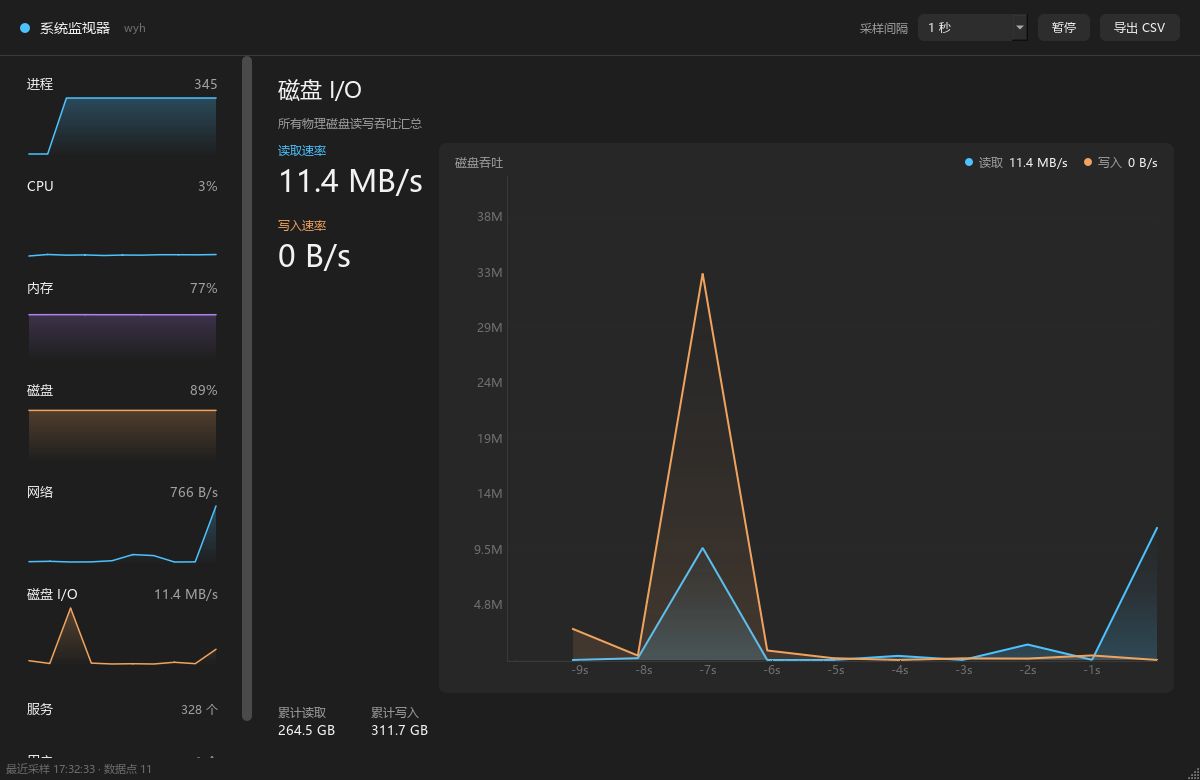
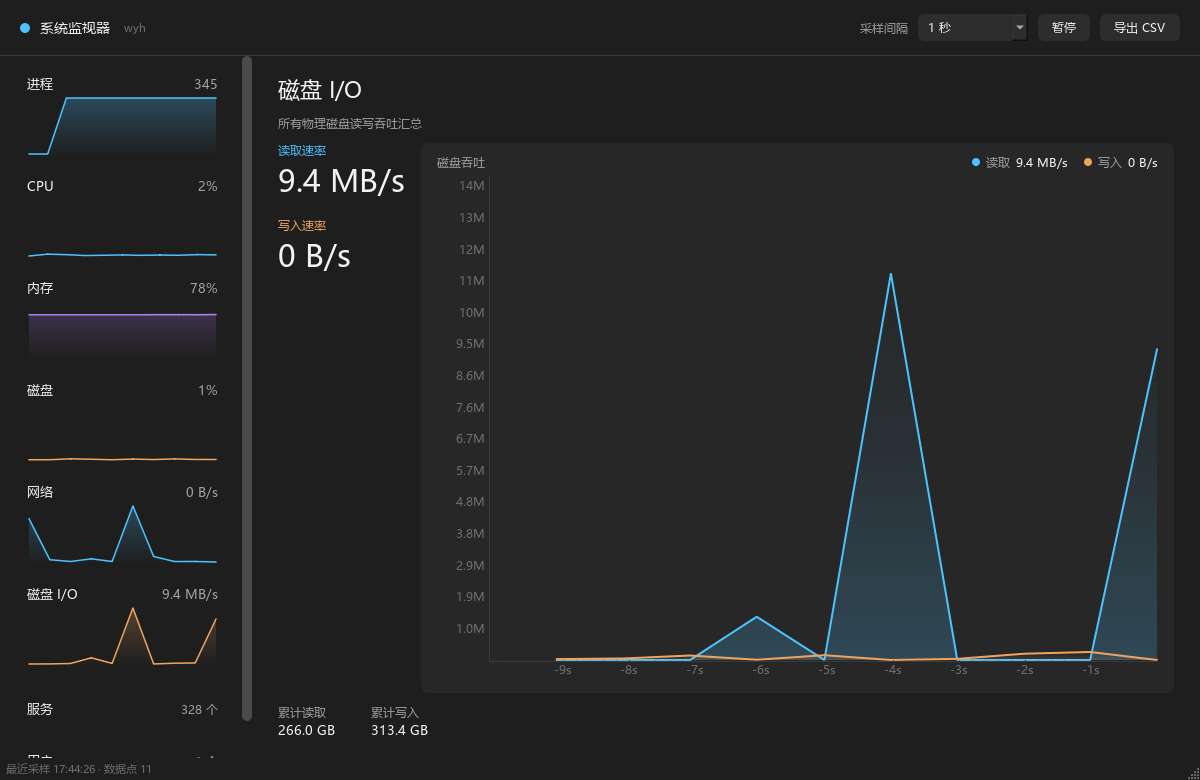
fix: 磁盘活动时间改用 PDH 计数器，与任务管理器口径一致
- 导航卡片与磁盘页展示「活动时间占比」，不再是分区容量使用率
- 分区容量保留在磁盘页，并明确标注两者含义不同
- psutil 的 read_time/write_time 在 NVMe 上恒为 0，仅作为 PDH 不可用时的回退
- 修复暂停恢复后首帧 CPU 取到微秒级窗口随机值的问题
- CSV 增加磁盘活动(%)列，文档补充三个磁盘指标的区别

diff --git a/sysmon/collector.py b/sysmon/collector.py
@@ -17,6 +17,7 @@ import psutil
 
 from .engine import RateTracker
 from .models import PartitionInfo, ProcessInfo, Snapshot, UserInfo
+from .winperf import DiskActivity
 
 PARTITION_CACHE_SECONDS = 30.0
 CONNECTIONS_EVERY_N_TICKS = 5
@@ -33,6 +34,14 @@ class Collector:
         self._net_down_tracker = RateTracker(interval)
         self._disk_read_tracker = RateTracker(interval)
         self._disk_write_tracker = RateTracker(interval)
+
+        # 磁盘活动时间：优先用 PDH 性能计数器（与任务管理器同源），
+        # 不可用时退回 read_time/write_time 差值法
+        self._disk_activity = DiskActivity()
+        self._busy_prev: Optional[Tuple[float, float]] = None
+        # CPU 基线刚重置时，避免用极短间隔再算一次得出垃圾值
+        self._cpu_last_mono: Optional[float] = None
+        self._cpu_last_value: Tuple[float, Tuple[float, ...], float] = (0.0, (), 0.0)
 
         self._part_cache: Optional[List[psutil._common.sdiskpart]] = None
         self._part_cache_time = float("-inf")
@@ -61,10 +70,15 @@ class Collector:
         """
         for tracker in self._trackers():
             tracker.reset()
+        self._busy_prev = None
+        self._disk_activity.rebase()
 
         try:
             psutil.cpu_percent(interval=None)
             psutil.cpu_percent(interval=None, percpu=True)
+            # 记录重置时刻：紧接着的那一帧间隔太短，不能直接再取一次，
+            # 否则得到的是微秒级窗口上的随机值
+            self._cpu_last_mono = time.perf_counter()
         except Exception:
             pass
 
@@ -104,7 +118,7 @@ class Collector:
         errors: List[str] = []
         self._tick += 1
 
-        cpu_percent, cpu_per_core, cpu_freq = self._sample_cpu(errors)
+        cpu_percent, cpu_per_core, cpu_freq = self._sample_cpu(mono, errors)
         (
             mem_percent,
             mem_used,
@@ -116,7 +130,7 @@ class Collector:
         ) = self._sample_memory(errors)
         partitions = self._sample_partitions(mono, errors)
         net_up, net_down, net_sent, net_recv = self._sample_network(mono)
-        disk_r, disk_w, disk_rt, disk_wt = self._sample_disk_io(mono)
+        disk_r, disk_w, disk_rt, disk_wt, disk_busy = self._sample_disk_io(mono)
         proc_cache, proc_count = self._read_processes()
         self._maybe_sample_connections(errors)
         self._maybe_sample_users(errors)
@@ -147,6 +161,7 @@ class Collector:
             disk_write_rate=disk_w,
             disk_read_total=disk_rt,
             disk_write_total=disk_wt,
+            disk_busy_percent=disk_busy,
             proc_count=proc_count,
             processes=proc_cache,
             users=self._users_cache,
@@ -155,7 +170,12 @@ class Collector:
         )
 
     # ------------------------------------------------------------------ 各指标
-    def _sample_cpu(self, errors: List[str]):
+    def _sample_cpu(self, mono: float, errors: List[str]):
+        # 基线刚重置（暂停恢复、改采样间隔）时，与上一次 cpu_percent 调用的
+        # 间隔只有微秒级，此时取数只会得到随机值。这一帧沿用上一帧的读数。
+        if self._cpu_last_mono is not None and mono - self._cpu_last_mono < 0.2:
+            return self._cpu_last_value
+
         try:
             percent = psutil.cpu_percent(interval=None)
             per_core = tuple(psutil.cpu_percent(interval=None, percpu=True))
@@ -170,6 +190,9 @@ class Collector:
                 freq = float(f.current)
         except Exception:
             pass
+
+        self._cpu_last_mono = mono
+        self._cpu_last_value = (percent, per_core, freq)
         return percent, per_core, freq
 
     @staticmethod
@@ -258,16 +281,34 @@ class Collector:
         try:
             per_disk = psutil.disk_io_counters(perdisk=True)
         except Exception:
-            return None, None, 0, 0
+            return None, None, 0, 0, None
         if not per_disk:
-            return None, None, 0, 0
+            return None, None, 0, 0, None
 
         read_total = sum(d.read_bytes for d in per_disk.values())
         write_total = sum(d.write_bytes for d in per_disk.values())
 
         read_rate = self._disk_read_tracker.update(read_total, mono)
         write_rate = self._disk_write_tracker.update(write_total, mono)
-        return read_rate, write_rate, read_total, write_total
+
+        busy = self._disk_activity.read()
+        if busy is None:
+            # 回退方案：read_time / write_time 为累计毫秒数（部分机器恒为 0）
+            busy_ms = float(
+                sum(getattr(d, "read_time", 0) + getattr(d, "write_time", 0)
+                    for d in per_disk.values())
+            )
+            prev = self._busy_prev
+            if prev is not None:
+                dt = mono - prev[1]
+                tolerance = max(self.interval * 2.0, 0.5)
+                if dt > 0 and abs(dt - self.interval) <= tolerance:
+                    delta_ms = busy_ms - prev[0]
+                    if delta_ms >= 0:
+                        busy = max(0.0, min(100.0, delta_ms / (dt * 1000.0) * 100.0))
+            self._busy_prev = (busy_ms, mono)
+
+        return read_rate, write_rate, read_total, write_total, busy
 
     def refresh_processes(self) -> None:
         """由独立的进程线程周期调用。

diff --git a/sysmon/winperf.py b/sysmon/winperf.py
@@ -1,0 +1,114 @@
+"""Windows 性能计数器（PDH）访问。
+
+psutil 的 disk_io_counters 虽然提供 read_time / write_time，
+但这两项来自 IOCTL_DISK_PERFORMANCE，在 NVMe 或未启用 diskperf 的机器上恒为 0
+（本项目开发机实测：写入 213 MB 后增量仍为 0），无法据此计算活动时间。
+任务管理器用的是性能计数器里的 "% Disk Time"，这里直接读同一个来源。
+
+使用 PdhAddEnglishCounterW 而不是 PdhAddCounterW，保证在中文等本地化
+Windows 上也能用英文计数器名。
+"""
+from __future__ import annotations
+
+import ctypes
+import sys
+from ctypes import wintypes
+from typing import Optional
+
+_PDH_FMT_DOUBLE = 0x00000200
+_PDH_FMT_NOCAP100 = 0x00008000
+_ERROR_SUCCESS = 0
+
+_COUNTER_PATH = r"\PhysicalDisk(_Total)\% Disk Time"
+
+
+class _PdhFmtCounterValue(ctypes.Structure):
+    class _Value(ctypes.Union):
+        _fields_ = [
+            ("doubleValue", ctypes.c_double),
+            ("longValue", ctypes.c_long),
+            ("largeValue", ctypes.c_longlong),
+        ]
+
+    _anonymous_ = ("u",)
+    _fields_ = [("status", wintypes.DWORD), ("u", _Value)]
+
+
+class DiskActivity:
+    """磁盘活动时间占比（0–100），语义与任务管理器「性能 → 磁盘」一致。"""
+
+    def __init__(self) -> None:
+        self._pdh = None
+        self._query = wintypes.HANDLE()
+        self._counter = wintypes.HANDLE()
+        self._available = False
+        self._primed = False
+
+        if sys.platform != "win32":
+            return
+
+        try:
+            pdh = ctypes.WinDLL("pdh")
+            if pdh.PdhOpenQueryW(None, 0, ctypes.byref(self._query)) != _ERROR_SUCCESS:
+                return
+            if (
+                pdh.PdhAddEnglishCounterW(
+                    self._query, _COUNTER_PATH, 0, ctypes.byref(self._counter)
+                )
+                != _ERROR_SUCCESS
+            ):
+                pdh.PdhCloseQuery(self._query)
+                return
+            self._pdh = pdh
+            self._available = True
+            self.rebase()
+        except Exception:
+            self._pdh = None
+            self._available = False
+
+    @property
+    def available(self) -> bool:
+        return self._available
+
+    def rebase(self) -> None:
+        """丢弃当前基线。暂停恢复后必须先调用，否则下一帧会把整段暂停计入。"""
+        if not self._available:
+            return
+        try:
+            self._pdh.PdhCollectQueryData(self._query)
+            self._primed = False
+        except Exception:
+            self._available = False
+
+    def read(self) -> Optional[float]:
+        """采集一次并返回活动时间百分比；不可用时返回 None。"""
+        if not self._available:
+            return None
+        try:
+            if self._pdh.PdhCollectQueryData(self._query) != _ERROR_SUCCESS:
+                return None
+            value = _PdhFmtCounterValue()
+            rc = self._pdh.PdhGetFormattedCounterValue(
+                self._counter,
+                _PDH_FMT_DOUBLE | _PDH_FMT_NOCAP100,
+                None,
+                ctypes.byref(value),
+            )
+            if rc != _ERROR_SUCCESS or value.status != _ERROR_SUCCESS:
+                return None
+            # 首次取数只有基线、没有差值
+            if not self._primed:
+                self._primed = True
+                return None
+            # _Total 是各磁盘之和，多盘并发时可能超过 100
+            return max(0.0, min(100.0, float(value.doubleValue)))
+        except Exception:
+            return None
+
+    def close(self) -> None:
+        if self._available:
+            try:
+                self._pdh.PdhCloseQuery(self._query)
+            except Exception:
+                pass
+            self._available = False

diff --git a/sysmon/ui/main_window.py b/sysmon/ui/main_window.py
@@ -23,7 +23,7 @@ from PySide6.QtWidgets import (
 )
 
 from ..collector import Collector
-from ..engine import HysteresisAlarm, History, format_bytes
+from ..engine import HysteresisAlarm, History, format_bytes, format_percent
 from ..services import ServiceWorker
 from ..worker import ProcessWorker, SampleWorker
 from .pages import (
@@ -305,13 +305,10 @@ class MainWindow(QMainWindow):
         cards["mem"].set_value(f"{snap.mem_percent:.0f}%")
         cards["mem"].set_values([s.mem_percent for s in snaps])
 
-        # 数值与迷你曲线必须同源：这里都取「最满分区」的使用率，
-        # 而不是数值用占用率、曲线用吞吐（那样两张卡会显示同一条曲线）。
-        max_part = max((p.percent for p in snap.partitions), default=0.0)
-        cards["disk"].set_value(f"{max_part:.0f}%")
-        cards["disk"].set_values(
-            [max((p.percent for p in s.partitions), default=0.0) for s in snaps]
-        )
+        # 磁盘卡片对应任务管理器的「磁盘」：显示活动时间占比，而不是容量使用率。
+        # 容量使用率是另一个指标，放在磁盘页的分区列表里。
+        cards["disk"].set_value(format_percent(snap.disk_busy_percent))
+        cards["disk"].set_values([s.disk_busy_percent for s in snaps])
 
         cards["net"].set_value(format_bytes(snap.net_down_rate))
         cards["net"].set_values(
@@ -369,7 +366,8 @@ class MainWindow(QMainWindow):
             "时间(ISO8601)",
             "CPU(%)",
             "内存(%)",
-            "磁盘最大使用率(%)",
+            "磁盘活动(%)",
+            "分区最大容量使用率(%)",
             "网络下行(B/s)",
             "网络上行(B/s)",
             "磁盘读(B/s)",
@@ -388,6 +386,7 @@ class MainWindow(QMainWindow):
                             datetime.datetime.fromtimestamp(s.wall).isoformat(timespec="seconds"),
                             f"{s.cpu_percent:.2f}",
                             f"{s.mem_percent:.2f}",
+                            "" if s.disk_busy_percent is None else f"{s.disk_busy_percent:.1f}",
                             f"{max_part:.2f}",
                             "" if s.net_down_rate is None else f"{s.net_down_rate:.0f}",
                             "" if s.net_up_rate is None else f"{s.net_up_rate:.0f}",

diff --git a/sysmon/ui/pages.py b/sysmon/ui/pages.py
@@ -28,7 +28,7 @@ from PySide6.QtWidgets import (
     QWidget,
 )
 
-from ..engine import format_bytes
+from ..engine import format_bytes, format_percent
 from .charts import ChartCard, build_series
 from .theme import C
 from .widgets import PartitionRow, Stat, mono_font
@@ -551,7 +551,7 @@ class MemoryPage(BasePage):
 # ---------------------------------------------------------------- 磁盘
 class DiskPage(BasePage):
     def __init__(self, parent: Optional[QWidget] = None) -> None:
-        super().__init__("磁盘", "各分区空间使用情况", parent)
+        super().__init__("磁盘", "各分区容量使用率 · 下方为磁盘活动时间与吞吐", parent)
 
         card = QFrame()
         card.setObjectName("ChartCard")
@@ -560,7 +560,7 @@ class DiskPage(BasePage):
         card_layout.setSpacing(4)
 
         header = QHBoxLayout()
-        title = QLabel("分区")
+        title = QLabel("分区容量使用率（与任务管理器的「磁盘占用」含义不同）")
         title.setStyleSheet(f"color:{C.TEXT_DIM};font-size:12px;")
         header.addWidget(title)
         header.addStretch(1)
@@ -587,10 +587,11 @@ class DiskPage(BasePage):
 
         stats = QHBoxLayout()
         stats.setSpacing(36)
+        self._stat_busy = Stat("活动时间")
         self._stat_read = Stat("当前读取")
         self._stat_write = Stat("当前写入")
         self._stat_count = Stat("分区数量")
-        for s in (self._stat_read, self._stat_write, self._stat_count):
+        for s in (self._stat_busy, self._stat_read, self._stat_write, self._stat_count):
             stats.addWidget(s)
         stats.addStretch(1)
         self._root.addLayout(stats)
@@ -624,6 +625,7 @@ class DiskPage(BasePage):
                 format_bytes(part.total, suffix=""),
             )
 
+        self._stat_busy.set_value(format_percent(snap.disk_busy_percent))
         self._stat_read.set_value(format_bytes(snap.disk_read_rate))
         self._stat_write.set_value(format_bytes(snap.disk_write_rate))
         self._stat_count.set_value(str(len(parts)))

diff --git a/sysmon/models.py b/sysmon/models.py
@@ -93,6 +93,9 @@ class Snapshot:
     disk_write_rate: Optional[float]
     disk_read_total: int
     disk_write_total: int
+    # 磁盘活动时间占比（%），语义对应任务管理器「性能 → 磁盘」的百分比；
+    # 与分区容量使用率完全是两回事
+    disk_busy_percent: Optional[float]
 
     # 进程（由独立线程更新，采样时只读缓存）
     proc_count: int

diff --git a/docs/设计文档.md b/docs/设计文档.md
@@ -87,7 +87,8 @@ Tkinter + matplotlib 在 1 Hz、60 点的场景下完全可用，本项目选择
 | CPU 频率 | `cpu_freq().current` | 直接读取 | MHz | 1 s |
 | 内存使用率 | `virtual_memory().percent` | `used / total` | % | 1 s |
 | 交换文件 | `swap_memory()` | `used / total` | % / B | 1 s |
-| 分区使用率 | `disk_usage(mount)` | `used / total` | % | 1 s（分区列表 30 s 刷新） |
+| 分区容量使用率 | `disk_usage(mount)` | `used / total` | % | 1 s（分区列表 30 s 刷新） |
+| 磁盘活动时间 | PDH `\PhysicalDisk(_Total)\% Disk Time` | 直接读取 | % | 1 s |
 | 网络接收速率 | `net_io_counters().bytes_recv` | `Δbytes / Δt` | B/s | 1 s |
 | 网络发送速率 | 同上 `.bytes_sent` | `Δbytes / Δt` | B/s | 1 s |
 | TCP 连接数 | `net_connections(kind="inet")` | `len(...)` | 个 | 5 s |
@@ -98,6 +99,20 @@ Tkinter + matplotlib 在 1 Hz、60 点的场景下完全可用，本项目选择
 | 登录用户 | `users()` | 直接读取 | — | 10 s |
 
 **单位约定**：容量与吞吐量统一按 1 KB = 1024 B 换算；网络速率以字节为单位（B/s），不换算为比特率。
+
+**磁盘的两个百分比不是一回事**：
+
+| 指标 | 含义 | 典型值 |
+|---|---|---|
+| 磁盘活动时间（导航卡片、磁盘页「活动时间」） | 采样区间内有 I/O 在途的时间占比，与任务管理器「性能 → 磁盘」的百分比同义 | 空闲时 0–5% |
+| 分区容量使用率（磁盘页分区列表） | 已用空间 / 总空间，反映磁盘装得多满 | 与系统负载无关 |
+
+初版只提供后者，导致用户拿它和任务管理器对比时以为读数错了（任务管理器 5%，程序 88%）。
+
+活动时间优先读取 Windows PDH 计数器（与任务管理器同源）。psutil 的
+`disk_io_counters().read_time / write_time` 虽然也可用来估算，但这两个值来自
+`IOCTL_DISK_PERFORMANCE`，在 NVMe 或未启用 diskperf 的机器上恒为 0
+（开发机实测写入 213 MB 后增量仍为 0），因此只作为 PDH 不可用时的回退方案。
 
 **进程 CPU 的口径**：psutil 的 `Process.cpu_percent()` 以单个核心为 100%，在多核机器上可超过 100%
 （空闲时 `System Idle Process` 约为 N×100%）。任务管理器的口径是"全部逻辑处理器合计 = 100%"，
@@ -251,7 +266,9 @@ python -m unittest discover -s tests -v
 
 1. 仅在 Windows 11 上验证；服务页依赖 `win_service_iter`，其他平台为空。
 2. 网络速率为所有网卡汇总值，包含回环、VPN 与虚拟机虚拟网卡。
-3. 任务管理器的磁盘百分比是"活动时间占比"，与本程序的吞吐量（B/s）不是同一指标，不可直接比较。
+3. 磁盘有三个不同指标，容易混淆：导航卡片的百分比是**活动时间占比**（与任务管理器同义），
+   磁盘页的分区列表是**容量使用率**，磁盘 I/O 页是**吞吐量（B/s）**。
+   其中活动时间依赖 PDH 计数器，若系统禁用了相应计数器则显示 `--`。
 4. 进程 CPU 占用为 3 秒采样区间内的平均值（且已按逻辑处理器数归一化），与任务管理器的瞬时值存在差异。
 5. 服务列表刷新间隔 30 秒，状态变化存在延迟。
 6. 不持久化历史数据，程序关闭后清空。

diff --git a/README.md b/README.md
@@ -17,7 +17,7 @@
 | 进程 | 全部进程列表（名称 / PID / CPU / 内存），支持搜索、表头排序、右键结束任务 |
 | CPU | 总利用率实时曲线、每逻辑处理器柱状图、频率、进程数 / 正常运行时间 |
 | 内存 | 使用率曲线、已用 / 可用 / 总计、交换（分页）文件 |
-| 磁盘 | 各分区使用率与容量明细、当前读写速率 |
+| 磁盘 | 活动时间占比（与任务管理器同义）、各分区容量使用率、读写吞吐曲线 |
 | 网络 | 收发速率双曲线、累计流量、TCP 连接数 |
 | 磁盘 I/O | 读写速率双曲线、累计读写量 |
 | 服务 | Windows 服务列表（名称 / 显示名称 / 状态 / 启动类型），支持搜索 |
